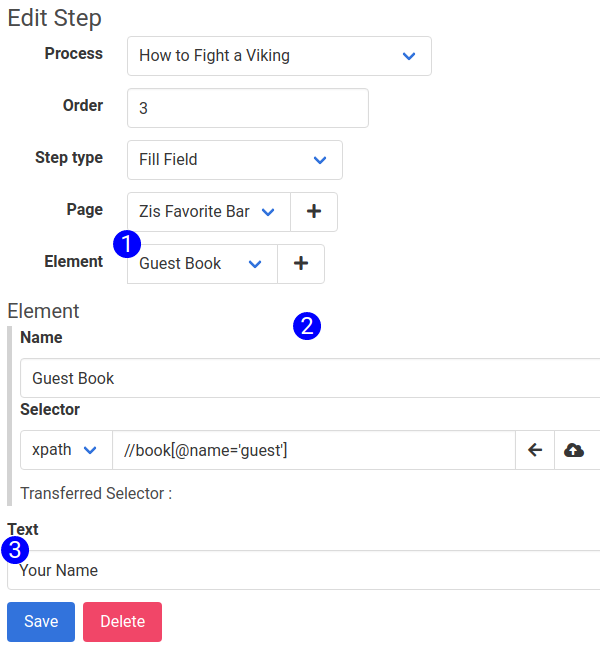
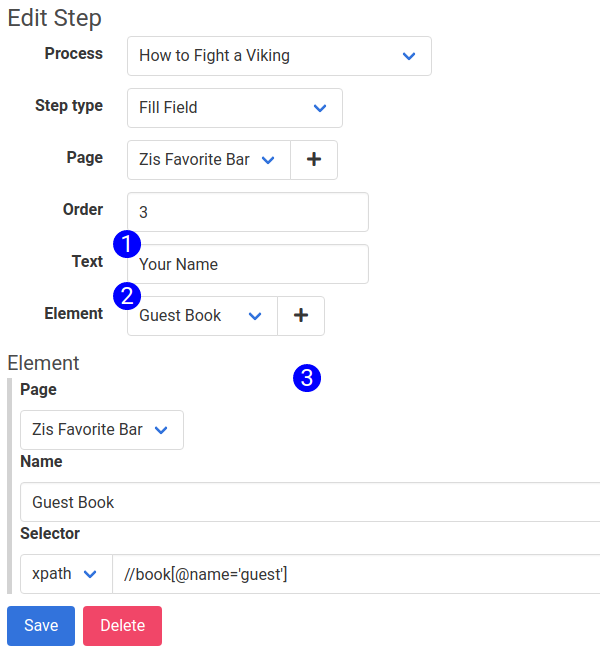
Element order changed

diff --git a/docs/step_form_fill_field.md b/docs/step_form_fill_field.md
@@ -4,9 +4,9 @@ The Fill Field Step Type will simulate user input to a field. It will enter the 
 
 ![Fill Field Form Reference](images/step_form_reference_fill_field.png)
 
-1. **Element Selector** - Picks the element to associated with the step, or create a new one.
-2. **Element Subform** - For more information on the Element Subform, see [this related article](element_subform.md)
-3. **Text** - The string of characters to be entered in to the field.
+1. **Text** - The string of characters to be entered in to the field.
+2. **Element Selector** - Picks the element to associated with the step, or create a new one.
+3. **Element Subform** - For more information on the Element Subform, see [this related article](element_subform.md)
 
 ## Accessible at
 `/steps/:id/edit`
